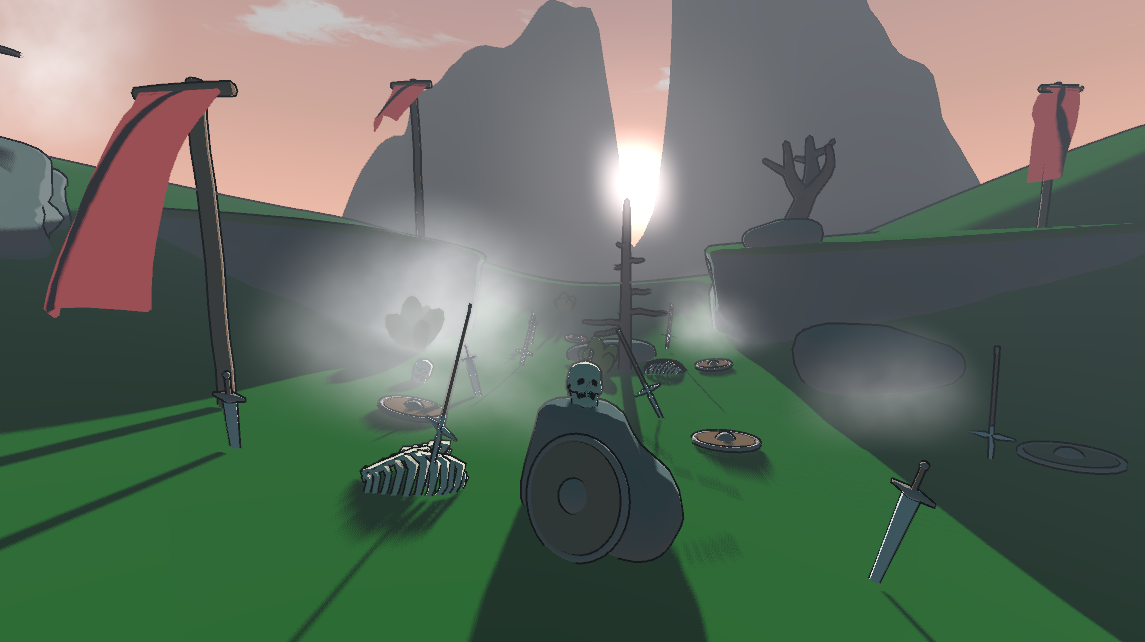
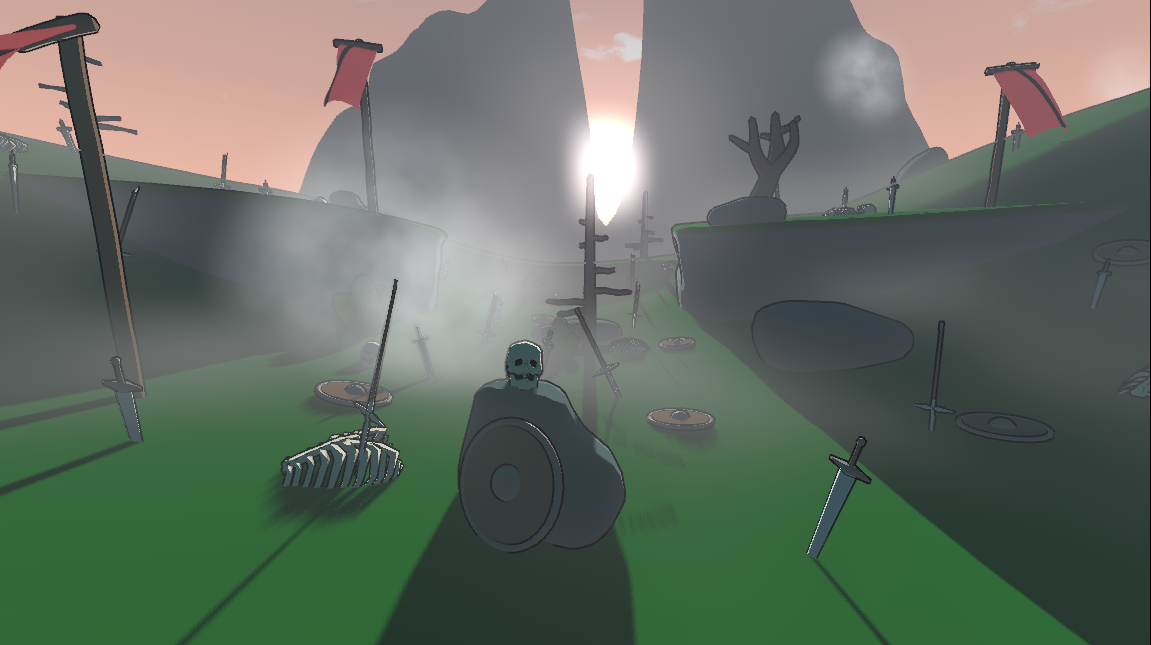
fix shadows

diff --git a/README.md b/README.md
@@ -29,6 +29,10 @@ This is how the defines look on [cel-shader-base.gdshader](src/cel-shader-base.g
 
 Lastly, you can watch the [Youtube video](https://youtu.be/F0LZ_hAci4k) for more information on how the base functions work and how to set it up.
 
+## Changelog
+
+- **Apr 12, 2023** <br/> Update shadow settings (Thanks to Dustin Jablonski).
+
 ## License
 
 All code is licensed under the [MIT](https://opensource.org/license/mit/) license.
